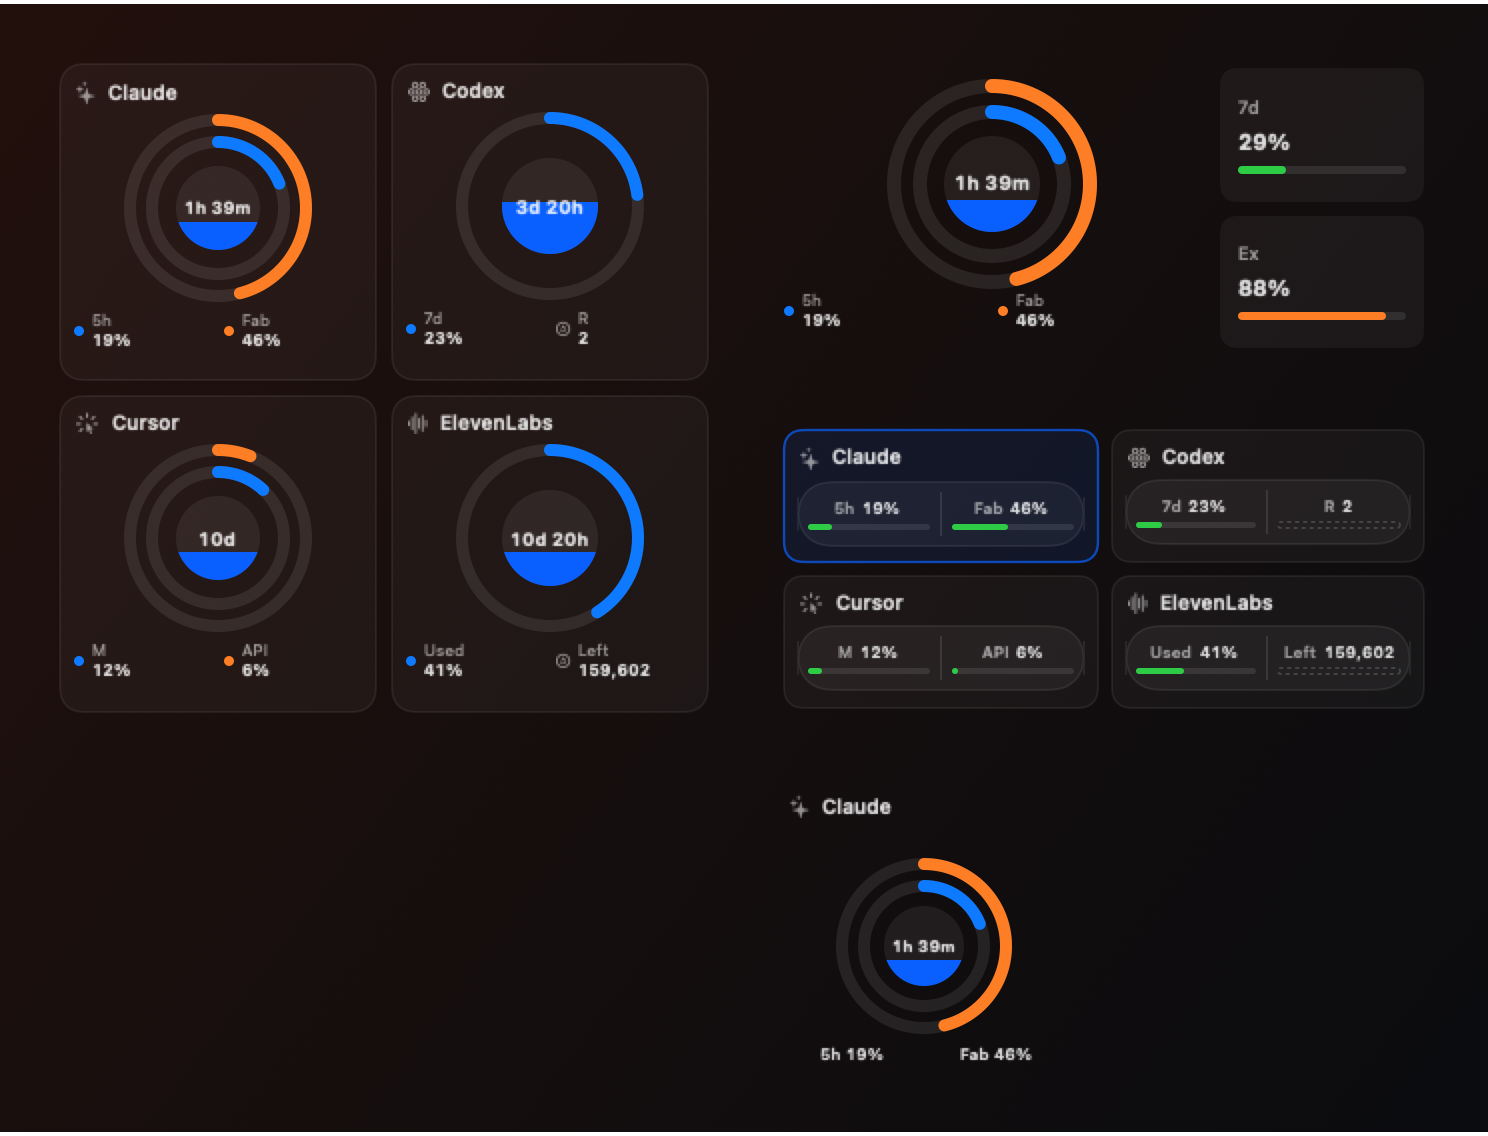
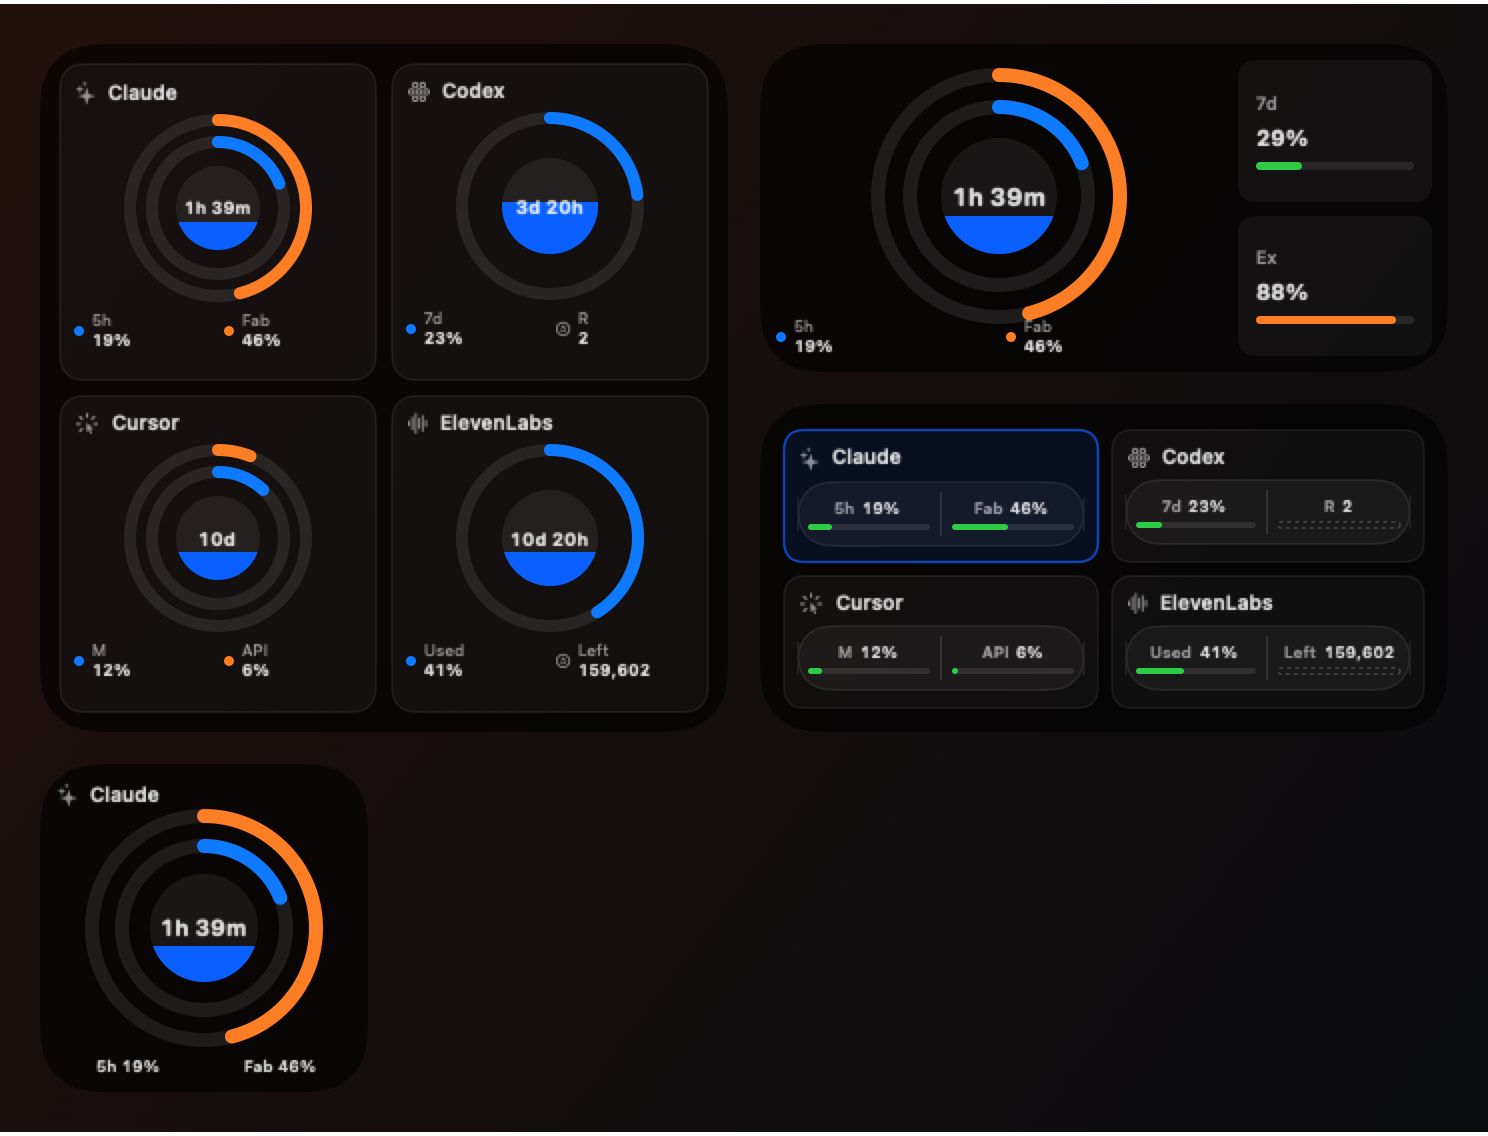
refactor: maximize compact widget layouts

diff --git a/macos/Sources/AgentUsageWidget/AgentUsageWidget.swift b/macos/Sources/AgentUsageWidget/AgentUsageWidget.swift
@@ -678,19 +678,28 @@ private struct PreferredProviderDetailsView: View {
                 NoProviderData()
             } else {
                 GeometryReader { proxy in
-                    HStack(spacing: 10) {
-                        VStack(spacing: 4) {
+                    HStack(spacing: 8) {
+                        Group {
                             if entry.snapshot.detailStyle == .orbit {
-                                OrbitGraphic(
-                                    metrics: topMetrics,
-                                    diameter: min(proxy.size.height * 0.72, 98),
-                                    lineWidth: 7
-                                )
-                                OrbitLegend(
-                                    metrics: topMetrics,
-                                    compact: true,
-                                    horizontal: true
-                                )
+                                ZStack {
+                                    OrbitGraphic(
+                                        metrics: topMetrics,
+                                        diameter: min(proxy.size.height * 0.82, 122),
+                                        lineWidth: 7
+                                    )
+                                    .offset(y: -6)
+
+                                    OrbitLegend(
+                                        metrics: topMetrics,
+                                        compact: true,
+                                        horizontal: true
+                                    )
+                                    .frame(
+                                        maxWidth: .infinity,
+                                        maxHeight: .infinity,
+                                        alignment: .bottom
+                                    )
+                                }
                             } else {
                                 DetailVisualization(
                                     style: entry.snapshot.detailStyle,
@@ -698,7 +707,7 @@ private struct PreferredProviderDetailsView: View {
                                 )
                             }
                         }
-                        .frame(width: proxy.size.width * 0.65)
+                        .frame(width: proxy.size.width * 0.68)
                         .frame(maxHeight: .infinity, alignment: .center)
 
                         VStack(spacing: 7) {
@@ -711,7 +720,7 @@ private struct PreferredProviderDetailsView: View {
                 }
             }
         }
-        .widgetSurface(padding: 12)
+        .widgetSurface(padding: 8)
         .accessibilityLabel("\(provider.name) details")
         .accessibilityElement(children: .contain)
     }
@@ -759,35 +768,44 @@ private struct PreferredProviderSnapshotView: View {
         let data = entry.snapshot.data(for: provider)
         let metrics = WidgetMetricSelection.topMetrics(for: provider, in: data)
 
-        VStack(alignment: .leading, spacing: 8) {
-            WidgetHeader(provider: provider, compact: true)
-
+        Group {
             if data == nil {
-                NoProviderData(compact: true)
+                VStack(alignment: .leading, spacing: 8) {
+                    WidgetHeader(provider: provider, compact: true)
+                    NoProviderData(compact: true)
+                }
             } else if entry.snapshot.detailStyle == .orbit {
-                Spacer(minLength: 0)
-                OrbitGraphic(metrics: metrics, diameter: 82, lineWidth: 6)
-                    .frame(maxWidth: .infinity)
-                HStack {
-                    ForEach(metrics.prefix(2)) { metric in
-                        Text("\(metric.compactLabel) \(metric.displayValue)")
-                            .font(.system(size: 8, weight: .semibold))
-                            .monospacedDigit()
-                            .lineLimit(1)
-                            .frame(maxWidth: .infinity)
+                ZStack {
+                    WidgetHeader(provider: provider, compact: true)
+                        .frame(maxWidth: .infinity, maxHeight: .infinity, alignment: .top)
+
+                    OrbitGraphic(metrics: metrics, diameter: 112, lineWidth: 7)
+
+                    HStack(spacing: 4) {
+                        ForEach(metrics.prefix(2)) { metric in
+                            Text("\(metric.compactLabel) \(metric.displayValue)")
+                                .font(.system(size: 8, weight: .semibold))
+                                .monospacedDigit()
+                                .lineLimit(1)
+                                .frame(maxWidth: .infinity)
+                        }
                     }
+                    .frame(maxWidth: .infinity, maxHeight: .infinity, alignment: .bottom)
                 }
             } else {
-                Spacer(minLength: 0)
-                DetailVisualization(
-                    style: entry.snapshot.detailStyle,
-                    metrics: metrics,
-                    compact: true
-                )
-                Spacer(minLength: 0)
+                VStack(alignment: .leading, spacing: 8) {
+                    WidgetHeader(provider: provider, compact: true)
+                    Spacer(minLength: 0)
+                    DetailVisualization(
+                        style: entry.snapshot.detailStyle,
+                        metrics: metrics,
+                        compact: true
+                    )
+                    Spacer(minLength: 0)
+                }
             }
         }
-        .widgetSurface()
+        .widgetSurface(padding: 8)
     }
 }
 